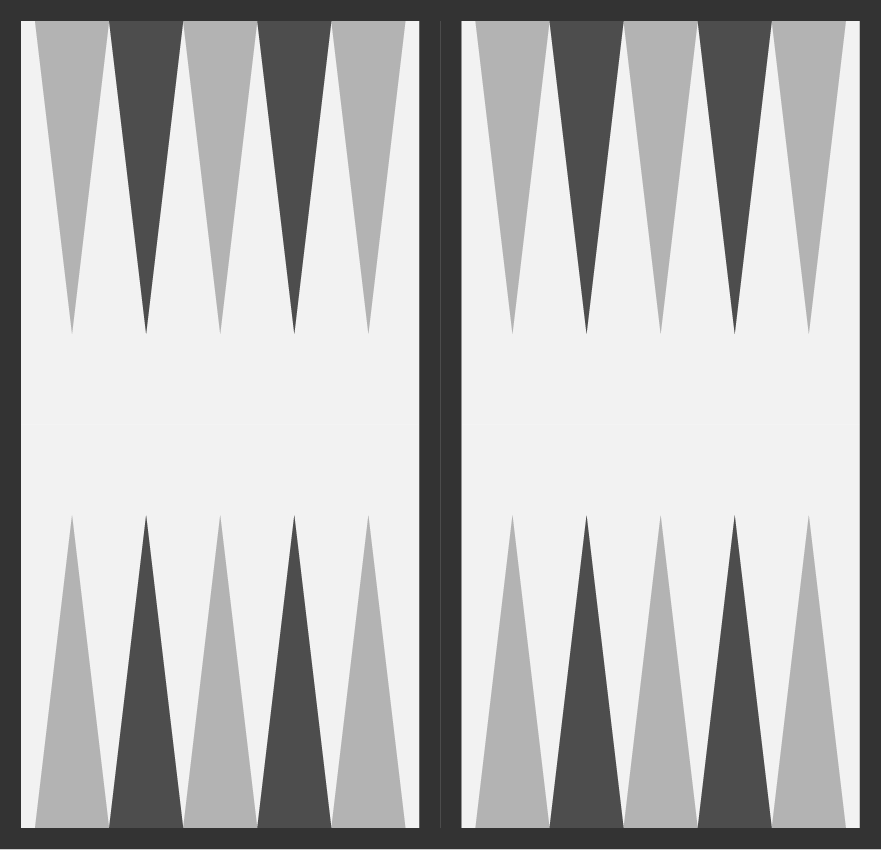
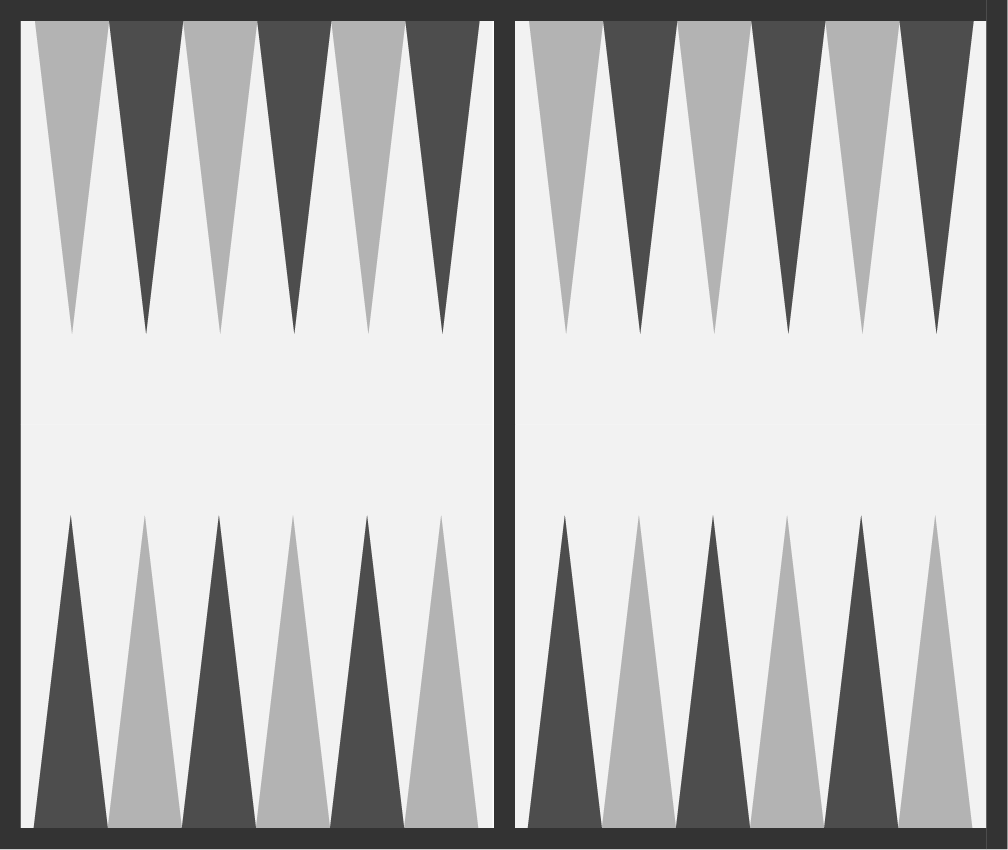
add rudimentary visuals, javascript functionality

diff --git a/js/main.js b/js/main.js
@@ -1,19 +1,102 @@
 console.log('main.js connected')
 
-/*
+///// Object Constructors /////
 
-name can be anything
-colors = 'black', 'white'
-
-function Player (name, color) {
-	this.name = name
+function Piece(id, color) {
+	this.id = id
 	this.color = color
 }
 
+function Dice(){
+	this.value = null
+	this.roll = function () {
+		this.value = Math.floor(Math.random() * 6) + 1
+	}
+}
 
-alternateTurn
+function Player(name, color) {
+	this.name = name
+	this.color = color
+	this.turn = false
+	this.pieces = []
+	this.dice = [] 
+}
 
-player1.turn = !player1.turn
-player2.turn = !player2.turn
+// There's some question as to whether Players should have pieces, or
+// Pieces should have players. The latter lends itself more to resembling
+// the real game, but it's a little strange to attribute the pieces back
+// to their players because they're the same color.
 
-*/
+function BackgammonBoard() {
+	this.points = {
+		 point1: []
+		 point2: []
+		 point3: []
+		 point4: []
+		 point5: []
+		 point6: []
+		 point7: []
+		 point8: []
+		 point9: []
+		point10: []
+		point11: []
+		point12: []
+		point13: []
+		point14: []
+		point15: []
+		point16: []
+		point17: []
+		point18: []
+		point19: []
+		point20: []
+		point21: []
+		point22: []
+		point23: []
+		point24: []
+		point25: []
+		point26: []
+	}
+}
+
+///// Game Setup Functions, Global Variables /////
+
+// NOTE: this code is written such that ANY function should be able to
+// alter the board, players, or winner without explicity taking any of
+// them as a parameter. In cases where a function could, at one time or
+// another, be applied to either player, "player" is specified as a parameter
+
+// player one is assigned to white, player two to black (as in chess)
+// the colors are used to refer back to the player once the piece is
+// separated from that player's array
+
+var playerOne
+var playerTwo
+var board
+var winner = null
+
+function makePlayers(nameOne, nameTwo) {
+	playerOne = new Player(nameOne, 'white')
+	playerTwo = new Player(nameTwo, 'black')
+	for (var i=1; i <= 15; i++) {
+		playerOne.pieces.push(new Piece(i, 'white'))
+		playerTwo.pieces.push(new Piece(i, 'black'))
+	}
+	playerOne.dice = [new Dice(), new Dice()]
+	playerTwo.dice = [new Dice(), new Dice()]
+}
+
+function setUpBoard() {
+	board = new BackgammonBoard()
+	// move white pieces into place
+	board.point1 = playerTwo.pieces.splice(-2)
+	board.point12 = playerTwo.pieces.splice(-5)
+	board.point17 = playerTwo.pieces.splice(-3)
+	board.point19 = playerTwo.pieces.splice(-5)
+	// move black pieces into place
+	board.point24 = playerTwo.pieces.splice(-2)
+	board.point13 = playerTwo.pieces.splice(-5)
+	board.point8 = playerTwo.pieces.splice(-3)
+	board.point6 = playerTwo.pieces.splice(-5)
+}
+
+

diff --git a/index.html b/index.html
@@ -19,9 +19,40 @@
 	<script src="https://code.jquery.com/jquery-3.1.1.min.js" integrity="sha256-hVVnYaiADRTO2PzUGmuLJr8BLUSjGIZsDYGmIJLv2b8=" crossorigin="anonymous"></script>
 </head>
 <body>
+  <div id="board">
+    <img class="black piece" src="./assets/bk-piece.png"></img>
+    <img class="black piece" src="./assets/bk-piece.png"></img>
+    <img class="black piece" src="./assets/bk-piece.png"></img>
+    <img class="black piece" src="./assets/bk-piece.png"></img>
+    <img class="black piece" src="./assets/bk-piece.png"></img>
+    <img class="black piece" src="./assets/bk-piece.png"></img>
+    <img class="black piece" src="./assets/bk-piece.png"></img>
+    <img class="black piece" src="./assets/bk-piece.png"></img>
+    <img class="black piece" src="./assets/bk-piece.png"></img>
+    <img class="black piece" src="./assets/bk-piece.png"></img>
+    <img class="black piece" src="./assets/bk-piece.png"></img>
+    <img class="black piece" src="./assets/bk-piece.png"></img>
+    <img class="black piece" src="./assets/bk-piece.png"></img>
+    <img class="black piece" src="./assets/bk-piece.png"></img>
+    <img class="black piece" src="./assets/bk-piece.png"></img>
 
-Hello World.
-
+    <img class="white piece" src="./assets/wh-piece.png"></img>
+    <img class="white piece" src="./assets/wh-piece.png"></img>
+    <img class="white piece" src="./assets/wh-piece.png"></img>
+    <img class="white piece" src="./assets/wh-piece.png"></img>
+    <img class="white piece" src="./assets/wh-piece.png"></img>
+    <img class="white piece" src="./assets/wh-piece.png"></img>
+    <img class="white piece" src="./assets/wh-piece.png"></img>
+    <img class="white piece" src="./assets/wh-piece.png"></img>
+    <img class="white piece" src="./assets/wh-piece.png"></img>
+    <img class="white piece" src="./assets/wh-piece.png"></img>
+    <img class="white piece" src="./assets/wh-piece.png"></img>
+    <img class="white piece" src="./assets/wh-piece.png"></img>
+    <img class="white piece" src="./assets/wh-piece.png"></img>
+    <img class="white piece" src="./assets/wh-piece.png"></img>
+    <img class="white piece" src="./assets/wh-piece.png"></img>
+  
+  </div>
 <script type="text/javascript" src="./js/main.js"></script>
 </body>
 </html>

diff --git a/css/styles.css b/css/styles.css
@@ -1,0 +1,65 @@
+
+body {
+	width: 100%;
+	height: 100%;
+}
+
+#board {
+	background-image: url(../assets/board.png);
+	background-size: cover;
+	height: 425px;
+	width: 500px;
+}
+
+img.piece {
+	width: 35px;
+	position: absolute;
+}
+
+.point1, .point24 {
+	left: 458px;
+}
+
+.point2, .point23 {
+	left: 421px;
+}
+
+.point3, .point22 {
+	left: 385px;
+}
+
+.point4, .point21 {
+	left: 347px;
+}
+
+.point5, .point20 {
+	left: 311px;
+}
+
+.point6, .point19 {
+	left: 273px;
+}
+
+.point7, .point18 {
+	left: 212px;
+}
+
+.point8, .point17 {
+	left: 175px;
+}
+
+.point9, .point16 {
+	left: 137px;
+}
+
+.point10, .point15 {
+	left: 100px;
+}
+
+.point11, .point14 {
+	left: 64px;
+}
+
+.point12, .point13 {
+	left: 26px;
+}
